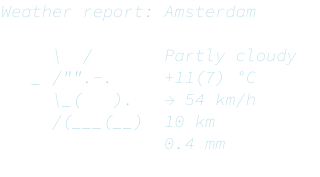
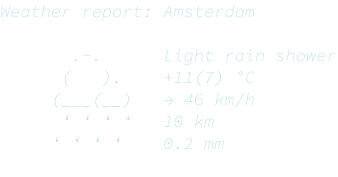
better weather + play next feature

diff --git a/node/index.js b/node/index.js
@@ -15,6 +15,8 @@ let adsQueue = [];
 let currentIndex = 0;
 let currentProcess = null;
 
+let weatherStr = "weather";
+
 function refillAds() {
   console.log("refill ads");
   adsQueue = fs.readdirSync(adsVideoFolder)
@@ -23,6 +25,7 @@ function refillAds() {
 
 function refillQueue() {
   console.log("refill queue");
+  getWeatherString();
   videoQueue = fs.readdirSync(videoFolder)
     .filter(file => file.endsWith('.mp4'))
     .sort(() => Math.random() > 0.5 ? 1 : -1);
@@ -38,8 +41,8 @@ function getFfmpegCommand(videoPath, videoName, nextVideo) {
     videoPath,
     '-i',
     'overlay.png',
-    '-i',
-    'weather.png',
+    // '-i',
+    // 'weather.png',
     '-c:v',
     'libx264',
     '-c:a',
@@ -49,8 +52,9 @@ function getFfmpegCommand(videoPath, videoName, nextVideo) {
     '-filter_complex',
     `scale=${resolution}:force_original_aspect_ratio=decrease,pad=${resolution}:(ow-iw)/2:(oh-ih)/2,` +
     'overlay=0:0,' +
-    'overlay=(w+90):(-30),' +
+    // 'overlay=(w+90):(-30),' +
     `drawtext=fontsize=25:fontcolor=white:text='${tvName}':x=25:y=25,` +
+    `drawtext=fontsize=18:fontcolor=white:text='${weatherStr}':x=w-tw:y=(-35),` +
     `drawtext=fontsize=11:fontcolor=white:text='%{pts\\:hms}':x=(10):y=h-th-2,` +
     `drawtext=fontsize=16:fontcolor=white:text='${videoName}':x=(w-tw-25):y=h-th-35,` +
     `drawtext=fontsize=13:fontcolor=white:text='${nextVideo}':x=(w-tw-25):y=h-th-19,` +
@@ -75,7 +79,7 @@ function getFfmpegCommand(videoPath, videoName, nextVideo) {
 }
 
 function startNextVideo(showAd = false) {
-  if (videoQueue.length === 0 || currentIndex == 0) {
+  if (videoQueue.length === 0) {
     refillQueue();
   }
   if (videoQueue.length > 0) {
@@ -89,7 +93,7 @@ function startNextVideo(showAd = false) {
       videoFile = adsQueue[randomIndex];
       console.log("show add: ", videoFile);
       videoPath = path.join(adsVideoFolder, videoFile);
-      videoName = "[AD] "+ path.parse(videoFile).name.replace(/[^ a-zA-Z0-9-\u0400-\u04FF]/g, '')+ " [AD]";
+      videoName = "[AD] " + path.parse(videoFile).name.replace(/[^ a-zA-Z0-9-\u0400-\u04FF]/g, '') + " [AD]";
     }
 
     const nextVideo = path.parse(videoQueue[(currentIndex + 1) % videoQueue.length]).name.replace(/[^ a-zA-Z0-9-\u0400-\u04FF]/g, '') + " >>";
@@ -147,6 +151,16 @@ function start() {
 
 app.use('/static', express.static('static'));
 
+app.get('/next/:number', (req, res) => {
+  serverVariable = parseInt(req.params.number);
+  currentIndex = serverVariable - 1;
+  console.log("next track is", currentIndex + 1, videoQueue[currentIndex + 1]);
+  if (currentProcess) {
+    currentProcess.kill();
+  }
+  res.send('next track is : ' + serverVariable);
+})
+
 app.get('/skip', (req, res) => {
   if (currentProcess) {
     currentProcess.kill();
@@ -162,7 +176,8 @@ app.get('/refill', (req, res) => {
 
 app.listen(3000, () => {
   refillAds();
-  generateWeatherImage();
+  // generateWeatherImage();
+  // getWeatherString();
   refillQueue();
   console.log('Server running on port 3000');
   start();
@@ -211,19 +226,14 @@ function removeOldTSFiles(directoryPath) {
   });
 }
 
-
-function generateWeatherImage(cityName = "Amsterdam") {
-  const command = `curl -s "https://wttr.in/${cityName}?0T" | convert -background transparent -fill lightblue -pointsize 17 label:@- weather.png`;
-
-  exec(command, (error, stdout, stderr) => {
+function getWeatherString() {
+  const curlCommand = 'curl -s https://wttr.in/Amsterdam?T0';
+  exec(curlCommand, (error, stdout, stderr) => {
     if (error) {
-      console.error(`Error: ${error.message}`);
+      console.error(`exec error: ${error}`);
       return;
     }
-    if (stderr) {
-      console.error(`stderr: ${stderr}`);
-      return;
-    }
-    console.log(`Weather image for ${cityName} generated successfully!`);
+    console.log(`stdout: ${stdout}`);
+    weatherStr = stdout;
   });
 }
